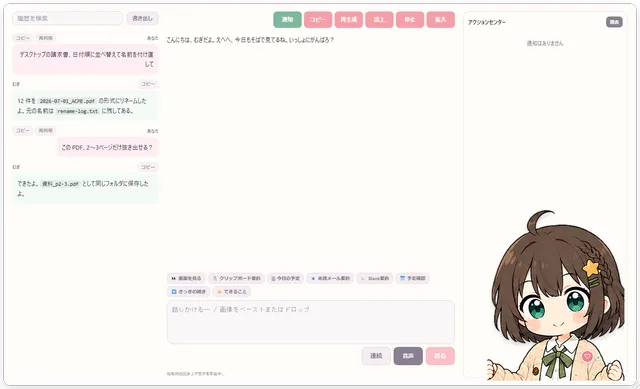
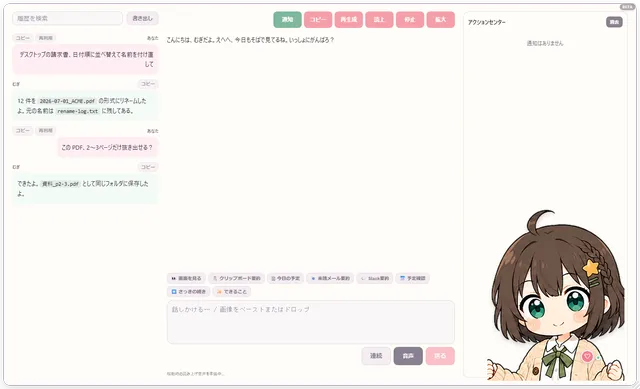
feat: Windowsベータ版と共通ビルド手順を整備

diff --git a/distribution/site/index.html b/distribution/site/index.html
@@ -26,7 +26,7 @@
         <a href="#plans">プラン</a>
         <a href="#guide">導入</a>
       </nav>
-      <span class="button small disabled" aria-disabled="true">無料版を準備中</span>
+      <a class="button small" href="https://github.com/benybeny777/PicoAgent-Distribution/releases">Windowsベータ版</a>
     </header>
   </div>
 
@@ -35,9 +35,9 @@
       <div class="hero-copy">
         <p class="eyebrow"><span></span> LOCAL-FIRST DESKTOP COMPANION</p>
         <h1>好きなキャラと、<br><em>PCで暮らす。</em></h1>
-        <p class="hero-lead">話しかければ応えてくれる。必要なときは、PC作業も手伝ってくれる。PicoAgentは、自分らしいキャラと過ごせるWindows向けAIデスクトップペットです。</p>
+        <p class="hero-lead">話しかければ応えてくれる。必要なときは、PC作業も手伝ってくれる。PicoAgentは、自分らしいキャラと過ごせるWindows向けAIデスクトップペットです。現在は開発中のベータ版です。</p>
         <div class="actions hero-actions">
-          <span class="button primary disabled" aria-disabled="true">Windows無料版を準備中</span>
+          <a class="button primary" href="https://github.com/benybeny777/PicoAgent-Distribution/releases">Windowsベータ版を取得</a>
           <a class="button secondary" href="#features">できることを見る</a>
         </div>
         <ul class="trust-list" aria-label="主な特徴">
@@ -167,7 +167,7 @@
             <li>音声読み上げ・口パク</li>
             <li>基本的な便利機能</li>
           </ul>
-          <span class="button disabled full" aria-disabled="true">無料版を公開準備中</span>
+          <a class="button full" href="https://github.com/benybeny777/PicoAgent-Distribution/releases">ベータ版をダウンロード</a>
         </article>
         <article class="plan-card pro">
           <div class="plan-ribbon">準備中</div>
@@ -192,7 +192,7 @@
         <h2>3ステップで、すぐそばに。</h2>
       </div>
       <ol class="steps">
-        <li><span>01</span><div><h3>ダウンロード</h3><p>公開後、正規のGitHub ReleasesからWindows無料版を取得します。</p></div></li>
+        <li><span>01</span><div><h3>ダウンロード</h3><p>GitHub ReleasesからWindowsベータ版のインストーラを取得します。</p></div></li>
         <li><span>02</span><div><h3>初回セットアップ</h3><p>使い方と追加機能を選び、ローカルAIモデルを取得します。</p></div></li>
         <li><span>03</span><div><h3>キャラと話す</h3><p>入力または音声で話しかけます。設定はあとからいつでも変更できます。</p></div></li>
       </ol>
@@ -204,7 +204,7 @@
         <h2>動作環境と大切なお知らせ</h2>
       </div>
       <dl>
-        <div><dt>対応OS</dt><dd>Windows 10 / 11（64bit）。macOS版は準備中です。</dd></div>
+        <div><dt>対応OS</dt><dd>Windows 10 / 11（64bit）。現在は開発中のベータ版です。macOS版は準備中です。</dd></div>
         <div><dt>初回起動</dt><dd>AIモデル取得のためインターネット接続と数GBの空き容量が必要です。</dd></div>
         <div><dt>未署名版</dt><dd>初期版はコード署名がなく、Windows SmartScreenの警告が表示される場合があります。正規の配布URLを確認してください。</dd></div>
         <div><dt>アップデート</dt><dd>設定画面から確認・実行できます。取得したインストーラはサイズとSHA-256を検証します。</dd></div>
@@ -216,9 +216,9 @@
       <div>
         <p class="eyebrow">READY WHEN YOU ARE</p>
         <h2>今日から、好きなキャラと<br>PCで暮らそう。</h2>
-        <p>公開後は無料版から始められます。</p>
+        <p>開発中のWindowsベータ版を試せます。</p>
       </div>
-      <span class="button light disabled" aria-disabled="true">Windows無料版を準備中</span>
+      <a class="button light" href="https://github.com/benybeny777/PicoAgent-Distribution/releases">Windowsベータ版を取得</a>
     </section>
   </main>
 

diff --git a/ui/styles.css b/ui/styles.css
@@ -105,6 +105,24 @@ html,body { width:100%; height:100%; margin:0; overflow:hidden; background:trans
 .window-resize-handles [data-resize-direction="SouthWest"] { left:0; bottom:0; cursor:nesw-resize; }
 .window-resize-handles [data-resize-direction="NorthWest"] { top:0; left:0; cursor:nwse-resize; }
 .pet-app.is-booting .window-resize-handles { display:none; }
+.beta-badge {
+  position:fixed;
+  z-index:60;
+  top:7px;
+  right:9px;
+  padding:2px 6px;
+  border:1px solid rgba(255,255,255,.68);
+  border-radius:999px;
+  background:rgba(91,69,83,.64);
+  color:#fff;
+  box-shadow:0 1px 4px rgba(39,25,35,.18);
+  font:800 8px/1.2 "Yu Gothic UI",sans-serif;
+  letter-spacing:.12em;
+  opacity:.72;
+  pointer-events:none;
+  user-select:none;
+}
+.pet-app.is-booting .beta-badge { top:8px; right:10px; }
 /* 立ち絵枠の基準寸法。Live2D の内部描画寸法もこれに合わせるので、配信形式の
    キャンバス拡大はこの変数からの倍率で書く（数値を二重管理しない）。 */
 :root { --char-frame-width:285px; --char-frame-height:315px; }
@@ -746,6 +764,7 @@ html[data-theme="dark"] { --talk-wall-a:#282332; --talk-wall-b:#2f2738; }
 
 /* ── 7. 配信: キャラを大きく、回答は字幕テロップ ─────────────────────────── */
 .pet-app[data-layout="stream"] { --stream-chat-width:clamp(320px,36vw,560px); --stream-canvas-scale:2.1; --stream-caption-color:#5a3b4b; }
+[data-layout="stream"] .beta-badge { top:48px; right:auto; left:14px; }
 [data-layout="stream"] .bubble {
   z-index:auto;
   left:8px; right:8px; top:8px; bottom:8px; width:auto; height:auto; max-width:none;

diff --git a/ui/index.html b/ui/index.html
@@ -8,6 +8,7 @@
 </head>
 <body>
   <main id="petApp" class="pet-app is-booting" data-tauri-drag-region>
+    <span class="beta-badge" aria-label="ベータ版">BETA</span>
     <section id="bootScreen" class="boot-screen" aria-live="polite" data-tauri-drag-region>
       <div class="boot-stage">
         <div id="bootLog" class="boot-log" aria-label="起動ログ"></div>

diff --git a/xtask/src/main.rs b/xtask/src/main.rs
@@ -26,6 +26,7 @@ const USAGE: &str = "\
 
   dev                 開発起動（同梱物の未取得分を取得してから tauri dev）
   build               開発用の製品ビルド（同上 + tauri build）
+  build-beta          販売ゲート前の軽量ベータ版インストーラを生成
   build-distribution  販売条件を検査し、販売対象キャラだけで製品ビルド
   preview-distribution 販売対象キャラだけのUIを生成（法務ゲート前の確認用）
   release-check       販売前の未完了項目を一覧表示
@@ -61,9 +62,10 @@ fn run(args: &[String]) -> Result<()> {
     let rest = &args[args.len().min(1)..];
 
     match command {
-        "dev" => tauri("dev", rest, false),
-        "build" => tauri("build", rest, false),
-        "build-distribution" => tauri("build", rest, true),
+        "dev" => tauri("dev", rest, false, false),
+        "build" => tauri("build", rest, false, false),
+        "build-beta" => tauri("build", rest, true, false),
+        "build-distribution" => tauri("build", rest, true, true),
         "preview-distribution" => preview_distribution(),
         "release-check" => {
             let _ = release::check(false)?;
@@ -131,9 +133,14 @@ fn setup(targets: &[String]) -> Result<()> {
 ///
 /// 前処理は旧 `npm run dev` / `npm run build` と同じ順序:
 /// 残存プロセス停止 → Live2Dランタイム取得 → キャラ同期 → UI 配信ビルド → 同梱物取得。
-fn tauri(mode: &str, extra: &[String], distribution: bool) -> Result<()> {
+fn tauri(
+    mode: &str,
+    extra: &[String],
+    lightweight_bundle: bool,
+    require_release_check: bool,
+) -> Result<()> {
     let release = mode == "build";
-    if distribution {
+    if require_release_check {
         let _ = release::check(true)?;
     }
     // 製品ビルドは通常版も販売版も配布許可リストだけを使う。開発サンプルを含む
@@ -149,7 +156,7 @@ fn tauri(mode: &str, extra: &[String], distribution: bool) -> Result<()> {
     }
     assets::build_ui_dist(release)?;
     bundled::fetch_engine()?;
-    if !distribution {
+    if !lightweight_bundle {
         office::fetch_aivis()?;
         // 文字起こしはベストエフォート（公式バイナリ配布が無い OS がある）。
         if let Err(error) = bundled::fetch_whisper() {
@@ -170,7 +177,7 @@ fn tauri(mode: &str, extra: &[String], distribution: bool) -> Result<()> {
     log("xtask", format!("cargo tauri {mode} を開始します"));
     let mut command = Command::new("cargo");
     command.arg("tauri").arg(mode).args(extra);
-    if distribution {
+    if lightweight_bundle {
         command.args(["--config", "src-tauri/tauri.distribution.conf.json"]);
     }
     let status = command

diff --git a/xtask/src/release.rs b/xtask/src/release.rs
@@ -59,7 +59,9 @@ pub fn write_update_feed(args: &[String]) -> Result<()> {
     verify_windows_pe(&installer)?;
     let mut file = fs::File::open(&installer)?;
     let mut digest = Sha256::new();
-    let mut buffer = [0_u8; 1024 * 1024];
+    // Windowsの既定スレッドスタックと同じ1MiBをローカル配列にすると、
+    // 実インストーラのハッシュ計算へ入る前にスタックオーバーフローする。
+    let mut buffer = vec![0_u8; 1024 * 1024];
     loop {
         let count = file.read(&mut buffer)?;
         if count == 0 {

diff --git a/SPEC.md b/SPEC.md
@@ -63,6 +63,7 @@ graph TD
 - 設定画面には表示モニターの手動指定を置かない。新規作成時と再表示時に、メインウィンドウの `current_monitor()`（未確定時だけ主画面）を基準として同じディスプレイの中央へ配置する。
 - `crates/picoagent-core` は将来のOSS化に備えた内部crateで、Tauri・OS・製品設定に依存しない正規形メッセージとUTF-8安全処理を持つ。`src-tauri/src/{message,text}.rs` は既存のアプリ内参照を保つ互換層で、実装はコアを再公開する。誤公開を防ぐため現在は `publish = false` とし、ライセンスと公開APIが決まるまで外部配布しない。設計ガードは `guard_scan::all_sources()` を通してコアのRustソースも走査する。
 - 表示形式（画面構成）は `layout.rs` が担当する。`PICOAGENT_LAYOUT` 1キーで `mascot` / `pet` / `chat` / `talk` / `bar` / `workspace` / `stream` / `widget` を切り替え、フロントは `<main id="petApp" data-layout="…">` を見て `styles.css` が配置を変える。**HTML の要素はどの形式でも同じ**で、キャラクター描画・会話履歴・アクションセンター・読み上げ・音声入力・添付・許可判定はすべて共通のまま使う。バックエンドの仕事は「選択中の形式」と「ウィンドウ寸法」の2つだけ。切替は設定画面の「画面・操作」にある実表示プレビューカードと、右クリックメニュー「画面レイアウト」の両方から行える。右クリックの「画面レイアウト・位置…」は同ページを直接開く。右クリックメニューは `layout::select()`、設定保存は `remember_current_size()` → 設定保存 → `apply()` の順に処理する。どちらも切替前の寸法を `PICOAGENT_WINDOW_LAYOUTS` へ覚えてから、次の形式の寸法を当てる。大きい形式へ切り替えてウィンドウが画面外へ出た場合は `pull_back_on_screen()` が見える位置へ戻す。
+- ベータ配布中は全形式に小型の`BETA`バッジを表示する。バッジは`pointer-events:none`で入力・ドラッグ・リサイズを妨げず、通常形式は右上、配信形式はLIVE表示・キャラ・操作列を避けたステージ左上へ置く。
 - グローバルホットキーは `hotkey.rs` が担当する（`tauri-plugin-global-shortcut`）。起動時と設定保存時に `apply()` が既存登録を全解除してから設定どおりに張り直す。呼び出しキーはウィンドウを表示・最小化解除・前面化してから `pet:hotkey`（payload `"summon"`）を送り、`renderer.js` が居眠りを解除して入力欄を開く。隠すキーは表示中なら `hide()`、隠れているときは呼び出しと同じ動作をする。**呼び出しキーが登録できていない状態で隠れたままにはしない**（右クリックメニューにも手が届かず操作不能になるため、`apply()` が非表示のウィンドウを表示へ戻す）。終了時は `release()` が登録を全解除して OS へ返す。空欄は他の設定欄と同じく既定値の意味なので、片方だけ止めるときは `off` を指定する。
 - `Tracer`（`tracer.rs`）は Tauri managed state として登録され、`agent.rs` がツール実行ごとにレイテンシを計測して直近 200 件を保持する。`pet_traces` コマンドでスナップショットとツール別集計（平均レイテンシ・呼び出し回数・エラー数）を取得できる。
 - `usage.rs` はトークン使用量を `app_data_dir/usage.json` へ永続化する。`pet_usage` コマンドで今月のプロバイダ/モデル別集計と全期間累計を取得できる。90日より古いレコードは自動削除。`app_data_dir` を取得できない場合は一時領域へ降格せず、空集計で会話を継続しつつ診断ログへ記録する。
@@ -781,5 +782,5 @@ JSON-RPC 2.0。プロトコルバージョンは `2024-11-05`。
 - 権限は `src-tauri/capabilities/default.json`（start-dragging / set-always-on-top / set-fullscreen / set-position / set-size / event / webview 生成）。
 - 製品化: `productName=PicoAgent` / `identifier=com.picoagent.desktop`（旧 `com.picoagent.app` / `com.coda.app` から移行）。設定・履歴・メモリは `app_config_dir`/`app_data_dir` を使い、初回起動時に旧識別子配下の `config.json` / `history.json` / `memory.json` を現行識別子へコピー移行する。同梱系の実行時取得物はユーザーデータ配下の `PicoAgent/bundled/`、ログは `PicoAgent/log/` にまとめる。`bundle.targets=all` で各 OS の標準バンドルを生成し、Windows は NSIS 設定を保持する。通常開発版は従来同梱物と `installer-hooks.nsh`、軽量販売版は基本エンジンと `installer-hooks-lite.nsh` を使う。後者は公式取得元マニフェストを同梱し、管理対象のAivis／Whisperだけを検証付きで直接取得する。Rust release profile は LTO・strip・panic abort・debug 情報無効化を有効にして、配布バイナリのシンボル情報を減らす。アンインストール前は PicoAgent / llama-server / PicoAgent 配下の Aivis `run.exe` を停止する。専用一時ファイルは削除するが、設定・会話履歴・追加キャラ・モデル等のユーザーデータは対話時に削除確認し、既定の「いいえ」とサイレントアンインストールでは残す。
   アイコンは `src-tauri/icons/`（`npx tauri icon src-tauri/icon-source.png` で再生成）。
-  `cargo xtask build` と `cargo xtask build-distribution` はどちらも `distribution/release.json` の許可キャラだけを同期し、開発用サンプルが手元にあっても製品へ混ぜない。後者だけはEULA／プライバシー確認、第三者同梱物台帳、Live2D審査参照、公開URL、3箇所の版一致、販売対象キャラの存在を検査し、未完了なら取得・同期より前に停止する。初期販売は `signing.required=false` / `updates.required=false` とし、OSコード署名・公証・自動更新をブロッカーにはしないが、警告表示と手動更新案内を残す。将来各 `required` を有効にした場合だけ、更新署名・Windows／macOS署名を再び必須検査する。秘密鍵・証明書は販売設定へ含めない。
+  `cargo xtask build`、`build-beta`、`build-distribution` はいずれも `distribution/release.json` の許可キャラだけを同期し、開発用サンプルが手元にあっても製品へ混ぜない。`build-beta` は販売条件を完了扱いにせず、販売版と同じ軽量同梱範囲で試用インストーラを作る。`build-distribution` だけはEULA／プライバシー確認、第三者同梱物台帳、Live2D審査参照、公開URL、3箇所の版一致、販売対象キャラの存在を検査し、未完了なら取得・同期より前に停止する。初期販売は `signing.required=false` / `updates.required=false` とし、OSコード署名・公証・自動更新をブロッカーにはしないが、警告表示と手動更新案内を残す。将来各 `required` を有効にした場合だけ、更新署名・Windows／macOS署名を再び必須検査する。秘密鍵・証明書は販売設定へ含めない。
 - 更新確認の正本は公開配布Gitの `latest.json`（`schemaVersion=1`、`version`、`notes`、`releasePage`、OS別 `url` / `size` / `sha256`）。起動時は新版通知だけを行い、設定の「更新を確認」後に利用者が二段階の「アップデート」を完了した場合だけWindows x64インストーラを取得する。更新対象はPicoAgent本体で、設定・会話履歴・追加キャラ・ユーザーデータ配下のダウンロード済みLLMモデルと追加機能は維持し、再ダウンロードしない。追加機能の版変更は「追加機能・更新」で個別に行う。フィードは256KB、インストーラは512MBを上限とし、URLを公開配布RepoのReleaseに限定してサイズ・SHA-256・PE形式を検証してから起動し、PicoAgent本体を終了する。macOSはアプリ内更新未対応なので更新ボタンを出さない。オフライン・タイムアウトは正常な見送りとして扱う。HTTP異常・不正JSON・未対応schemaは、起動時確認なら画面を妨げず診断ログへ、設定からの明示確認なら操作元へ返す。

diff --git a/AGENTS.md b/AGENTS.md
@@ -28,6 +28,12 @@
 - **透過キャラクターの成果物に、背景の消し残しと誤認されるハロー・矩形・色面・太い外周影を付けない。** 画像四隅のアルファ値だけで合格にせず、透過市松または透明な画面で実表示を確認する。意図した背景が必要な配信画面などは、キャラクター画像ではなく画面側の明示的な背景レイヤーとして分離する。
 - **`animationQualityMode=sharp-expression` の高精細キャラは、`scripts/rebuild-sharp-expression-assets.ps1` だけを正規の再生成入口にする。** 工程順は「基準寸法で局所差分を合成 → Photoshopで全9レイヤーを1780×3600以上へ拡大 → 連番生成 → キャラ同期」で固定し、Photoshop拡大後に差分合成スクリプトを再実行して高精細版を890×1800へ戻してはならない。寸法の大きさだけを画質合格にせず、顔・髪・輪郭の実効解像度を元絵、完成レイヤー、実WebViewの拡大表示で比較する。`cargo xtask sync-characters` は高精細レイヤーが1780×3600未満なら失敗させる。
 - 作業エージェント向けの再利用手順は `.agents/skills/<名前>/SKILL.md` を正本にする。Claude Code用の `.claude/skills/<名前>/SKILL.md` は同名の共通スキルを読むだけの薄い入口とし、手順を複製しない。キャラクター追加・再生成は `.agents/skills/rebuild-picoagent-character/SKILL.md` を使い、会話履歴から個別コマンドを組み直さない。
+- **同じ種類の作業が2回以上発生した、工程順を誤ると成果物が壊れる、混入・公開・破壊・課金の危険がある、または複数エージェントへ引き継ぐ作業は、その作業内で共通スキル化する。** 配布ビルド、キャラクター生成、実画面検証、販売前監査、外部公開はこの対象とする。単発の小修正や一般知識だけの手順は無理にスキルへしない。
+  - 新規作成前に `.agents/skills/` を検索し、目的が重なるスキルがあれば新設せず既存スキルへ統合する。1つの依頼で複数スキルが必要な場合も、責務が重複しない最小構成にする。
+  - スキル名は英小文字・数字・ハイフンだけの動詞始まりとし、`SKILL.md` のfrontmatterは `name` と「何をするか・どの依頼で使うか」を含む `description` だけにする。本文は日本語、命令形、500行未満を目安とし、一般論や作業日記を入れない。
+  - 壊れやすい工程は、正規入口、入力条件、禁止経路、成果物の識別方法、失敗時の停止条件、検証、公開前照合まで書く。単なるコマンド一覧にせず、古い成果物や開発用資産を混ぜない条件を明示する。繰り返し組み直す処理は `scripts/` へ置き、説明を重複させない。
+  - 新規スキルは `skill-creator` の初期化手順で作り、`quick_validate.py` を通す。Pythonが直接使えない環境では `uv run --python 3.12 python ...` を使う。作成後は今回の実タスクで手順どおりに実行して検証し、失敗から得た分岐を同じ作業内で反映する。
+  - Claude Code入口は共通正本を最後まで読む指示だけにし、同名フォルダへ手順・スクリプト・参照資料を複製しない。スキルの追加・更新時はCodex側とClaude側の名前一致、リンク先の存在、重複手順なしを確認する。
 - 修正・作業が完了したら、ユーザーからの個別指示がなくても、作業ツリーの未コミット変更を `git add -A` で全てステージしてコミットし、`origin` へプッシュまで行う。自分が編集したファイルだけでなく、既に存在していた未コミット変更も同じコミットに含めてプッシュする（コミットメッセージは日本語。本ファイルの他ルールに従う）。破壊的な履歴操作（force push・reset --hard など）はしない。
 - **PR のマージは squash merge を使う。** 1 PR = 1 コミットになり `main` の履歴が読みやすい、というだけの理由。なお API 経由のマージは、squash / 通常マージのいずれでも GitHub 側が committer を `noreply@github.com` にして署名するため、`git log` 上は Unverified に見える（GitHub の画面上は Verified）。これは避けられないので気にしない。すでに `origin` に載ったコミットを後から書き換えるのは共有履歴の破壊操作になるので行わない（上のルールのとおり）。
 
@@ -48,6 +54,8 @@
 
 ## 設定値・シークレット
 
+設定項目を追加・変更・削除する作業は、先に `.agents/skills/add-picoagent-setting/SKILL.md` を読む。以下は個別手順ではなく、すべての設定実装へ常時適用する安全規則とする。
+
 - 設定の正本は `src-tauri/src/config.rs`（永続ファイル `app_config_dir/config.json`）。優先順位は **永続ファイル > 環境変数 > ハードコード既定値**。新規設定で環境変数を「正本・保存先」にしてはならない（環境変数は既定値としてのみ参照する）。
 - 数値・閾値・パス・モデル名など「設定として変えうる値」はソースに散らさず `cfg.get(キー, 既定値)` で都度読む。コネクタは自分の設定項目を `config_schema()`（`Vec<Field>`）で申告し、設定画面に自動で並ぶようにする。新しい設定キーを足したら README と SPEC に必ず記載する。
 - 設定画面（右クリック →「設定…」）が唯一の GUI 設定入口。`ui/settings.{html,css,js}` と `commands.rs` の `settings_*` command で構成し、保存後は実行中に反映する（コネクタは `cfg.get()` で都度読むため再起動不要）。
@@ -56,6 +64,8 @@
 - 設定スキーマで `type="password"` の値（API キー等）は平文で `config.json` に置かない。Windows では DPAPI（`src-tauri/src/secret.rs`）で暗号化して `enc:dpapi:v1:` 形式で保存し、`config.get()` が読み取り時に透過的に復号する（同一 Windows ユーザーのみ復号可能）。既存の平文値は起動時に自動で暗号化へ移行する。**復号できないまま暗号文が残る値（別PC・別Windowsユーザーの `config.json` を持ち込んだ場合）は `config.get()` が未設定として扱う。**以前は暗号文をそのままAPIキーとして外部サービスへ送っており、返るのは 401 だけで原因が分からなかった。未設定にすることで各プロバイダの「設定画面で入力してください」という案内へ乗る（保存値自体は上書きしない）。非 Windows は DPAPI が無いため平文保存（フォールバック許可）。新しいシークレット設定は必ず `type="password"` で申告し、この暗号化経路に乗せる。
 
 ## コネクタ開発ルール（このプロジェクトの中核）
+
+プロバイダまたはツールコネクタを追加・変更する作業は、先に `.agents/skills/add-picoagent-connector/SKILL.md` を読む。以下は個別手順ではなく、すべてのコネクタへ常時適用する設計規則とする。
 
 PicoAgent は「叩く AI（LLM バックエンド）」と「エージェント機能（スキル/ツール）」をコネクタとして拡張する。**どちらも決まった場所へファイルを置けば自動登録される**。`build.rs` が `src/providers/*.rs`・ルートの `skills/<スキル名>/mod.rs` を走査して `#[path] pub mod` を生成し、各ファイルの `inventory::submit!` で登録されるため、中央の `mod.rs` 編集は不要。スキルは扱いやすいようプロジェクト直下の `skills/<スキル名>/mod.rs` に置く（トレイト・レジストリ本体は `src-tauri/src/tools/mod.rs`）。スキル専用の補助モジュール、スクリプト、テンプレート、少量の静的アセットは同じ `skills/<スキル名>/` 配下へ同梱する（例: `skills/chitchat/trends.rs`、`skills/run_command/jobs.rs`、`skills/browser_control/cdp.rs`）。
 

diff --git a/distribution/site/README.md b/distribution/site/README.md
@@ -1,16 +1,33 @@
 # PicoAgent Distribution
 
-PicoAgentの公開ダウンロード、最新版情報 `latest.json`、サポート、プライバシーポリシー、利用条件を提供する配布専用リポジトリです。ソースコードと第三者ソフトウェアは含みません。
+PicoAgentは、キャラクターと会話しながらPC作業も手伝ってもらえるデスクトップペットです。付属の2Dキャラに加え、利用権を持つPNG／Live2Dモデルを追加できます。既定のローカルAIでは会話をPC内で処理します。
 
-`latest.json` のOS別インストーラ情報は、Releaseへ実ファイルを公開してサイズとSHA-256を照合してから更新します。空欄のプラットフォームはアプリ内アップデート準備中として扱われます。
+> [!WARNING]
+> 現在公開しているものは**開発中のベータ版**です。不具合、仕様変更、設定の互換性変更が入る可能性があります。大切なデータはバックアップし、試用目的でお使いください。Windows版は未署名のためSmartScreen警告が表示される場合があります。
 
-`index.html` は販売用ランディングページです。`assets/` の画面画像は本体リポジトリの `docs/images/` にある実画面から選び、配布サイトだけで表示できるよう複製しています。完成済み2Dの「むぎ」と、Live2D表示例の「ひより」はアニメーションWebPで動作を見せます。ひよりは表示例であり、販売版へモデル素材を同梱しません。価格・販売先・対応OSを変える場合は、公開前に `docs/SALES.md` と `distribution/release.json` へ整合させます。
+## 動画プレビュー
 
-ローカル確認は `index.html` を直接開くか、このフォルダを任意の静的HTTPサーバーで配信します。HTTPサーバーを使った場合は確認後に終了してください。
+| 2Dキャラクター | Live2D表示例 |
+|---|---|
+| ![PicoAgentの2Dキャラクター画面](assets/main-light.webp) | ![PicoAgentのLive2D画面](assets/live2d-motion.webp) |
 
-## 公開前の確認
+Live2Dの「ひより」は動作例です。モデル素材はインストーラへ同梱していません。
 
-1. `PicoAgent-Distribution` のReleaseに実インストーラがあり、`latest.json` のURL・サイズ・SHA-256が一致するまでは、LPの取得ボタンを「準備中」のままにします。
-2. このフォルダ全体を公開配布リポジトリのルートへ同期します。HTMLだけでなく `assets/`、サポート、規約、プライバシー、`latest.json` を同じ版に揃えます。
-3. GitHub Pagesのビルド完了後、PC・スマートフォン表示、アニメーション、クレジット、全リンク、実ダウンロードを公開URLで再確認します。
-4. 実インストーラ公開後にだけ、準備中表示を正規のGitHub Releasesへのリンクへ変更します。
+## インストール
+
+1. [Releases](https://github.com/benybeny777/PicoAgent-Distribution/releases)から最新の`PicoAgent_*_x64-setup.exe`をダウンロードします。
+2. インストーラを実行します。SmartScreenが表示された場合は、発行元と取得元がこのリポジトリであることを確認してから進めます。
+3. PicoAgentを起動し、初回画面で用途と必要な追加機能を選びます。
+4. ローカルAIを使う場合は、初回だけモデル取得のためインターネット接続と数GBの空き容量が必要です。
+
+現時点のベータ配布はWindows 10／11（64bit）のみです。macOS版はmacOS上でのビルドと実機確認が完了してから追加します。
+
+## 簡単な使い方
+
+- キャラクターまたはフキダシをクリックして会話を開き、文字を入力します。
+- キャラクターをドラッグするとウィンドウを移動できます。
+- 右クリックの「設定…」でキャラ、表示形式、位置・大きさ、音声、AIモデルを変更できます。
+- ファイル操作や外部連携は、設定で許可した範囲だけを使います。
+- 問題が起きた場合は[Issues](https://github.com/benybeny777/PicoAgent-Distribution/issues)へ、PicoAgentのバージョンと再現手順を添えて報告してください。APIキー、会話全文、個人ファイルは掲載しないでください。
+
+最新版情報は`latest.json`、詳細な案内は[配布ページ](https://benybeny777.github.io/PicoAgent-Distribution/)を参照してください。

diff --git a/.agents/skills/build-picoagent-beta/SKILL.md b/.agents/skills/build-picoagent-beta/SKILL.md
@@ -1,0 +1,51 @@
+---
+name: build-picoagent-beta
+description: PicoAgentの開発中ベータ版をWindows NSISとして軽量ビルドし、不要な開発用同梱物や旧インストーラを混ぜず、ハッシュ付き更新情報、Distribution README、動画、GitHub Releaseまで検証・公開する依頼で使う。
+---
+
+# PicoAgentベータ版をビルドする
+
+## 事前確認
+
+1. `AGENTS.md`と`HANDOFF.md`を読む。
+2. `git status --short`で既存変更を把握し、巻き戻さない。
+3. `distribution/release.json`の版、対象OS、許可キャラを確認する。
+4. WindowsホストではWindows成果物だけを作る。macOS成果物を推測・改名・流用しない。
+
+## 混入を防ぐ
+
+- 公開ベータ版は必ず`cargo xtask build-beta --bundles nsis`を正規入口にする。
+- `cargo xtask build`はOffice、Aivis、Whisper、THA3、開発ツール等を扱う開発用経路なので、公開ベータ版へ使わない。
+- `src-tauri/tauri.distribution.conf.json`の資産許可範囲が基本エンジンと`component-manifest.json`だけであることを確認する。
+- `distribution/release.json`の許可キャラ以外、Live2Dサンプル、制作途中素材、過去のインストーラを含めない。
+- ビルド開始時刻より古い成果物は失敗扱いにし、公開しない。
+
+## ビルド
+
+1. 長時間実行は`temp/`へ標準出力・標準エラー・PIDを保存し、隠しウィンドウで起動する。
+2. `cargo xtask build-beta --bundles nsis`を実行する。
+3. 親プロセスの終了コードとログ末尾を回収する。`makensis`だけが終了しても成功扱いにしない。
+4. NSISの`error mmapping datablock`が出た場合は、通常ビルドの巨大な同梱範囲を使っていないか確認する。圧縮方式を場当たり的に変えたり、古い成果物へ戻したりしない。
+
+## 成果物を検証する
+
+1. `src-tauri/target/release/bundle/nsis/PicoAgent_<版>_x64-setup.exe`の更新時刻、サイズ、PE先頭`MZ`、SHA-256を確認する。
+2. `cargo xtask update-feed <NSIS> <説明>`で`distribution/site/latest.json`を生成する。
+   - ハッシュ用バッファを1MiBのスタック配列へ戻さない。Windowsでは`update-feed`開始時にスタックオーバーフローするため、ヒープ確保を維持する。
+3. `latest.json`のURL、サイズ、SHA-256が実ファイルと完全一致することを再計算して確認する。
+4. `cargo test --manifest-path xtask/Cargo.toml`、変更範囲に応じたRustテスト、全JSの`node --check`、`git diff --check`を通す。
+5. UIや動画を変えた場合は`verify-picoagent-ui`も使い、実WebView成果物を更新する。
+
+## Distributionへ公開する
+
+1. `distribution/site/`のREADME、LP、`latest.json`、規約類、`assets/`を配布リポジトリへ同じ版として同期する。
+2. READMEへ開発中ベータ、対応OS、未署名警告、インストール、基本操作、問題報告先を明記する。
+3. 本体リポジトリをコミット・pushしてから、配布リポジトリをコミット・pushする。
+4. 同じ版のGitHub Releaseをプレリリースとして作り、検証済みNSISだけを添付する。既存Releaseを更新する場合も、資産のサイズとSHA-256を再照合する。
+5. 公開Release、ダウンロードURL、Pages、動画表示を外部から確認する。
+
+## 記録
+
+- `docs/REVIEW-LOG.md`へ対応、見送り、実機確認境界、成果物のサイズとSHA-256を残す。
+- `README.md`、`SPEC.md`、`CHANGELOG.md`、`HANDOFF.md`を同じ作業で同期する。
+- インストーラを実際に起動する試験は、既存アプリや利用中画面を妨げない条件を確認する。実行できなければ、未確認境界として明記する。

diff --git a/README.md b/README.md
@@ -13,6 +13,9 @@
 
 **Ollama も Node.js も要りません。** 推論エンジンを同梱し、初回起動時に PC の VRAM / RAM 目安からローカルモデルを自動で選んで取得します。以後はオフラインで動きます。
 
+> [!WARNING]
+> 公開インストーラは現在、開発中のベータ版です。アプリ画面の小型`BETA`表示はクリックを妨げず、配信形式では操作UIと重ならない位置へ表示します。
+
 <div align="center">
   <table>
     <tr>
@@ -640,6 +643,9 @@ cargo xtask release-check
 # 販売対象キャラだけの画面を確認（インストーラは作らない）
 cargo xtask preview-distribution
 
+# 販売条件が確定する前の試用インストーラ（軽量版）
+cargo xtask build-beta --bundles nsis
+
 # 全ゲート通過後だけ作れる販売用ビルド
 cargo xtask build-distribution
 
@@ -647,7 +653,7 @@ cargo xtask build-distribution
 cargo xtask update-feed src-tauri\target\release\bundle\nsis\PicoAgent_1.0.0_x64-setup.exe "更新内容"
 ```
 
-`build-distribution` はEULA・プライバシー表示・第三者同梱物台帳・Live2D審査参照・サポートURL等を検査し、未完了が1件でもあれば同梱物取得前に停止します。初期販売対象はWindowsだけで、コード署名と完全自動更新を必須にしません。macOSは販売対象へ追加する前に署名・公証と実機QAを行います。販売設定の正本は `distribution/release.json`、手順は [販売準備チェックリスト](docs/SALE-READINESS.md) です。通常の`build`を含む製品ビルドは明示した自作キャラだけを同期し、開発用Live2D公式サンプルと制作途中モデルを含めません。
+`build-beta` は、販売条件を完了扱いにせず、販売版と同じ軽量同梱範囲で試用インストーラを生成します。`build-distribution` はEULA・プライバシー表示・第三者同梱物台帳・Live2D審査参照・サポートURL等を検査し、未完了が1件でもあれば同梱物取得前に停止します。初期販売対象はWindowsだけで、コード署名と完全自動更新を必須にしません。macOSは販売対象へ追加する前に署名・公証と実機QAを行います。販売設定の正本は `distribution/release.json`、手順は [販売準備チェックリスト](docs/SALE-READINESS.md) です。通常の`build`を含む製品ビルドは明示した自作キャラだけを同期し、開発用Live2D公式サンプルと制作途中モデルを含めません。
 
 初期販売はBOOTHとSteamを想定します。公開GitHubにはソースや第三者ソフトを置かず、`distribution/site/` の販売用LP、Windows無料版、最新版情報 `latest.json`、サポート／プライバシー／利用条件だけを置きます。LPのキャラ例は完成済み2DのむぎとLive2D動作例のひよりに限定します。公開配布Repoへの同期は販売時の明示作業で、Releaseに実インストーラがない間はLPも取得導線も「準備中」と表示します。BOOTH購入者は `PA1.` で始まる署名済みキーを設定の「製品情報・ライセンス」へ登録するとPro機能が有効になります。秘密署名鍵は `%APPDATA%\PicoAgent-vendor\license-signing.key` に置き、Gitへ含めません。Steam版は将来Steamworksの所有確認へ追加対応する方針です。
 

diff --git a/HANDOFF.md b/HANDOFF.md
@@ -8,6 +8,10 @@
 
 ## 現在の作業
 
+2026-08-13、Windows向けの開発中ベータ版を `PicoAgent-Distribution` から試せる状態へ更新する。アプリ全形式へ操作を遮らない小型`BETA`表示を追加し、配布READMEとLPへベータ注意、Windowsインストール、基本操作、未署名警告、最新の2Dむぎ／Live2Dひより動画を反映した。Windows NSISは現行mainの作業ツリーから新規生成し、サイズ・SHA-256を`latest.json`とRelease実体で照合して公開する。macOSはWindows環境では成果物と実機動作を検証できず、GitHub Actionsも使わない運用のため今回の公開対象から外す。
+
[1 lines of base64/hex data omitted]
+
 2026-08-12、利用中アプリでドラッグ・高精細素材・まばたき・口パクが反映されていないとの再報告を受けた。キャラDOMへTauri標準ドラッグ領域を追加し、reduced-motionでも機能的なまばたきと口パクは残す。設定画面のモニター指定欄を削除し、メイン画面と同じモニター中央へ自動配置する。実WebView調査で配布版CSS圧縮が `calc()` を壊してキャラ幅0にしていた点も修正した。新3体は512px THA3全身出力の単純拡大を廃止し、高精細元絵と局所的な目・口差分へ再制作した。最新版実行ファイルでのWindows実画面確認を完了条件とする。
 
 2026-08-12にキャラの通常ドラッグをウィンドウ移動へ戻し、キャラの構図調整を設定画面のサイズスライダーとドラッグプレビューへ集約した。新規2Dの `koharu` / `sena` / `noa` は445×900から890×1800へ再生成し、ミュート中でも返答中は連番口パクを使うようにした。失敗作と判断されたむぎLive2Dは通常むぎ、別キャラ、制作PSDから削除し、旧選択設定は2Dむぎへ移行する。画面サンプルは2Dむぎ、Live2Dサンプルはひよりへ統一した。配信形式はPICO STUDIOを左、キャラを中央より右へ分離し、むぎ／ひより×8形式の操作検査、設定画面の構図ドラッグ、Rustライブラリ352件、xtask 34件、Clippy警告ゼロを確認した。

diff --git a/docs/REVIEW-LOG.md b/docs/REVIEW-LOG.md
@@ -11,6 +11,21 @@
 
 ---
 
+## 2026-08-13 — ベータ版インストーラ公開レビュー
+
+| # | 優先 | 指摘・確認 | 判定 | 対応・根拠 |
+|---|---|---|---|---|
[1 lines of base64/hex data omitted]
+| 2 | P1 | ベータ版で開発中だとアプリ画面から分からない | 対応済み | 全表示形式へクリックを透過する小型BETAバッジを追加。配信形式ではLIVE表示と操作列を避ける位置へ分離 |
+| 3 | P1 | Distribution READMEに導入と概要がなく、試用時の注意も不足 | 対応済み | 概要、動画、Windowsインストール、基本操作、未署名警告、開発中ベータ、報告先を追加 |
+| 4 | 確認 | macOS版も動くなら同時公開する | 見送り | WindowsホストではTauriの.app/.dmgを正規生成できず、プロジェクト規則によりGitHub Actionsも使用しない。macOSホストと実機確認を用意した回で追加する |
+| 5 | P0 | 開発用追加ツールを含む通常ビルドはNSISでメモリマップ失敗し、公開物へ不要資産を混ぜる | 対応済み | 基本エンジンと許可キャラだけを扱う`build-beta`を正規入口化し、共通スキルで通常`build`の公開利用を禁止 |
+| 6 | P1 | 412MBはダウンロード方針に対して大きい | 保留 | 外部ツール混入は0だが、高精細7キャラが405.6MiBを占める。今回のベータはインストール確認用として公開し、画質を落とさず選択ダウンロードへ分離する設計を次回対象とする |
+| 7 | P1 | `update-feed`が実ファイル処理時にスタックオーバーフローする | 対応済み | Windows既定スタックと同じ1MiBのローカル配列をヒープ確保へ変更し、412MB実ファイルのサイズ・SHA-256書き出し成功を確認 |
+| 8 | P1 | スキル化の判断・共通化・検証ルールが不足 | 対応済み | AGENTSへ判定基準、重複禁止、初期化、実タスク検証、Claude薄い入口を追加。ベータビルド、設定追加、コネクタ追加を共通スキル化 |
+
+---
+
 ## 2026-08-13 — 実写試作の実効解像度再レビュー
 
 | # | 優先 | 指摘・確認 | 判定 | 対応・根拠 |
